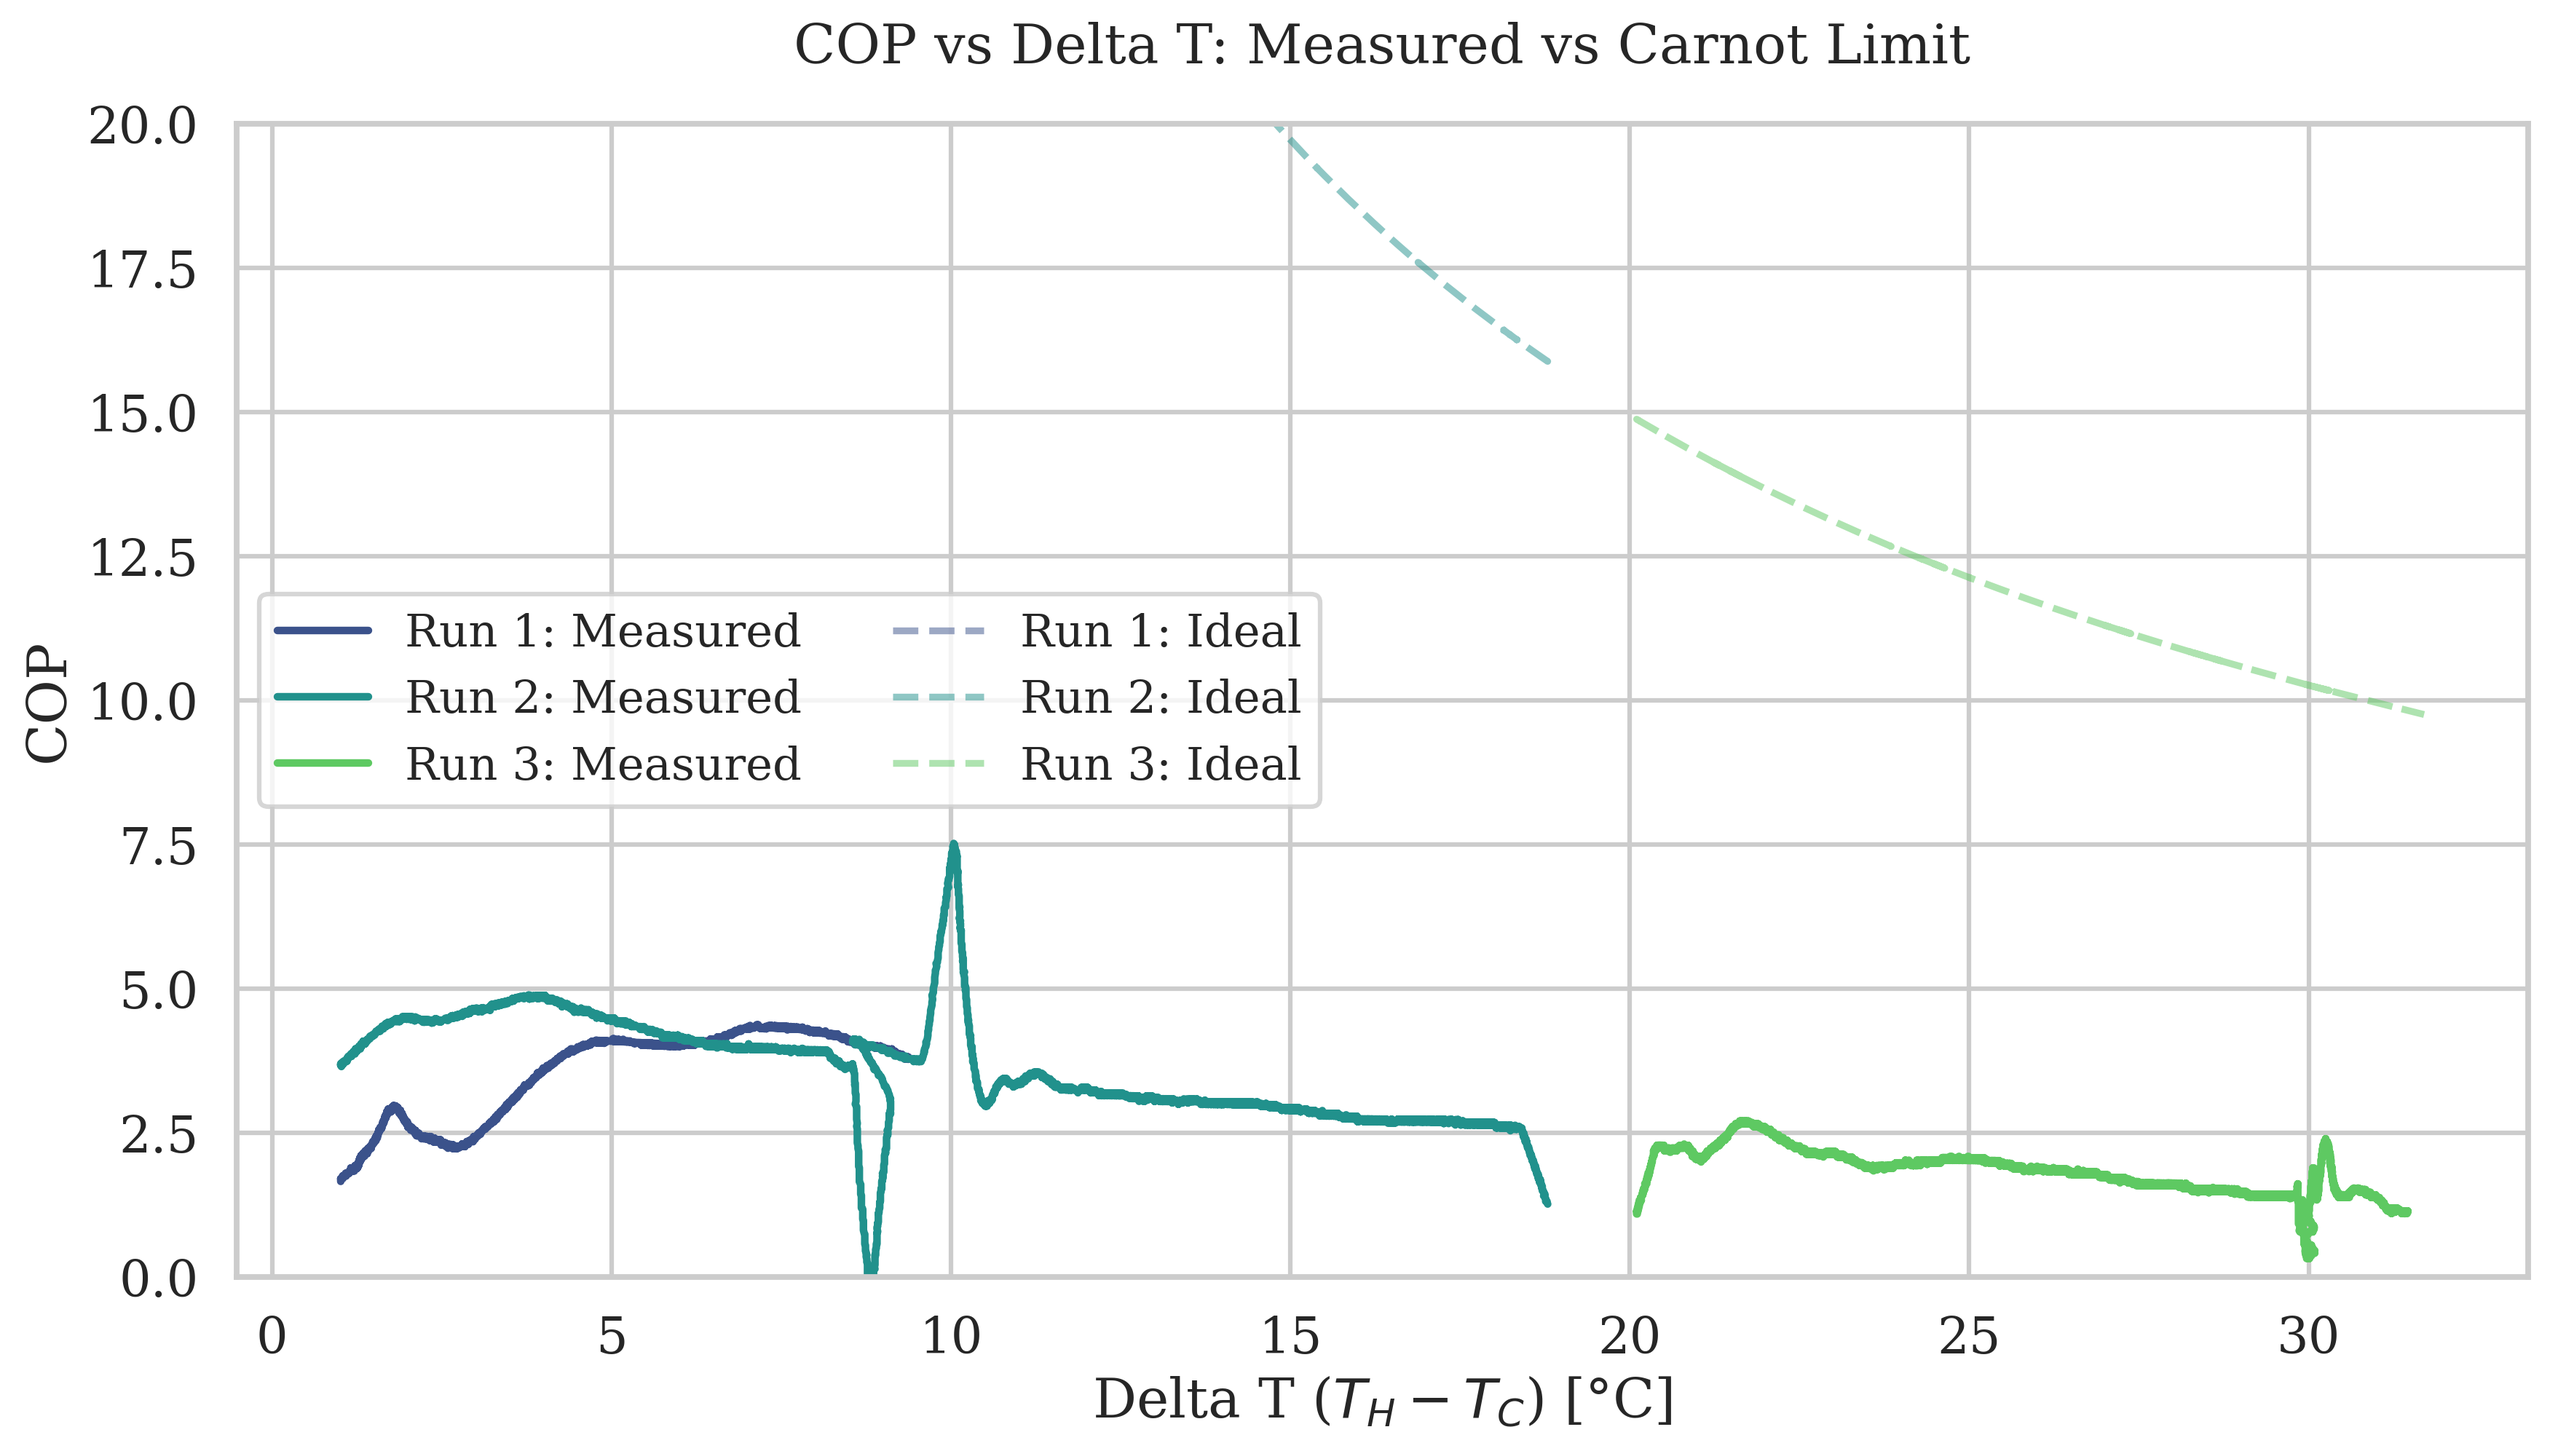
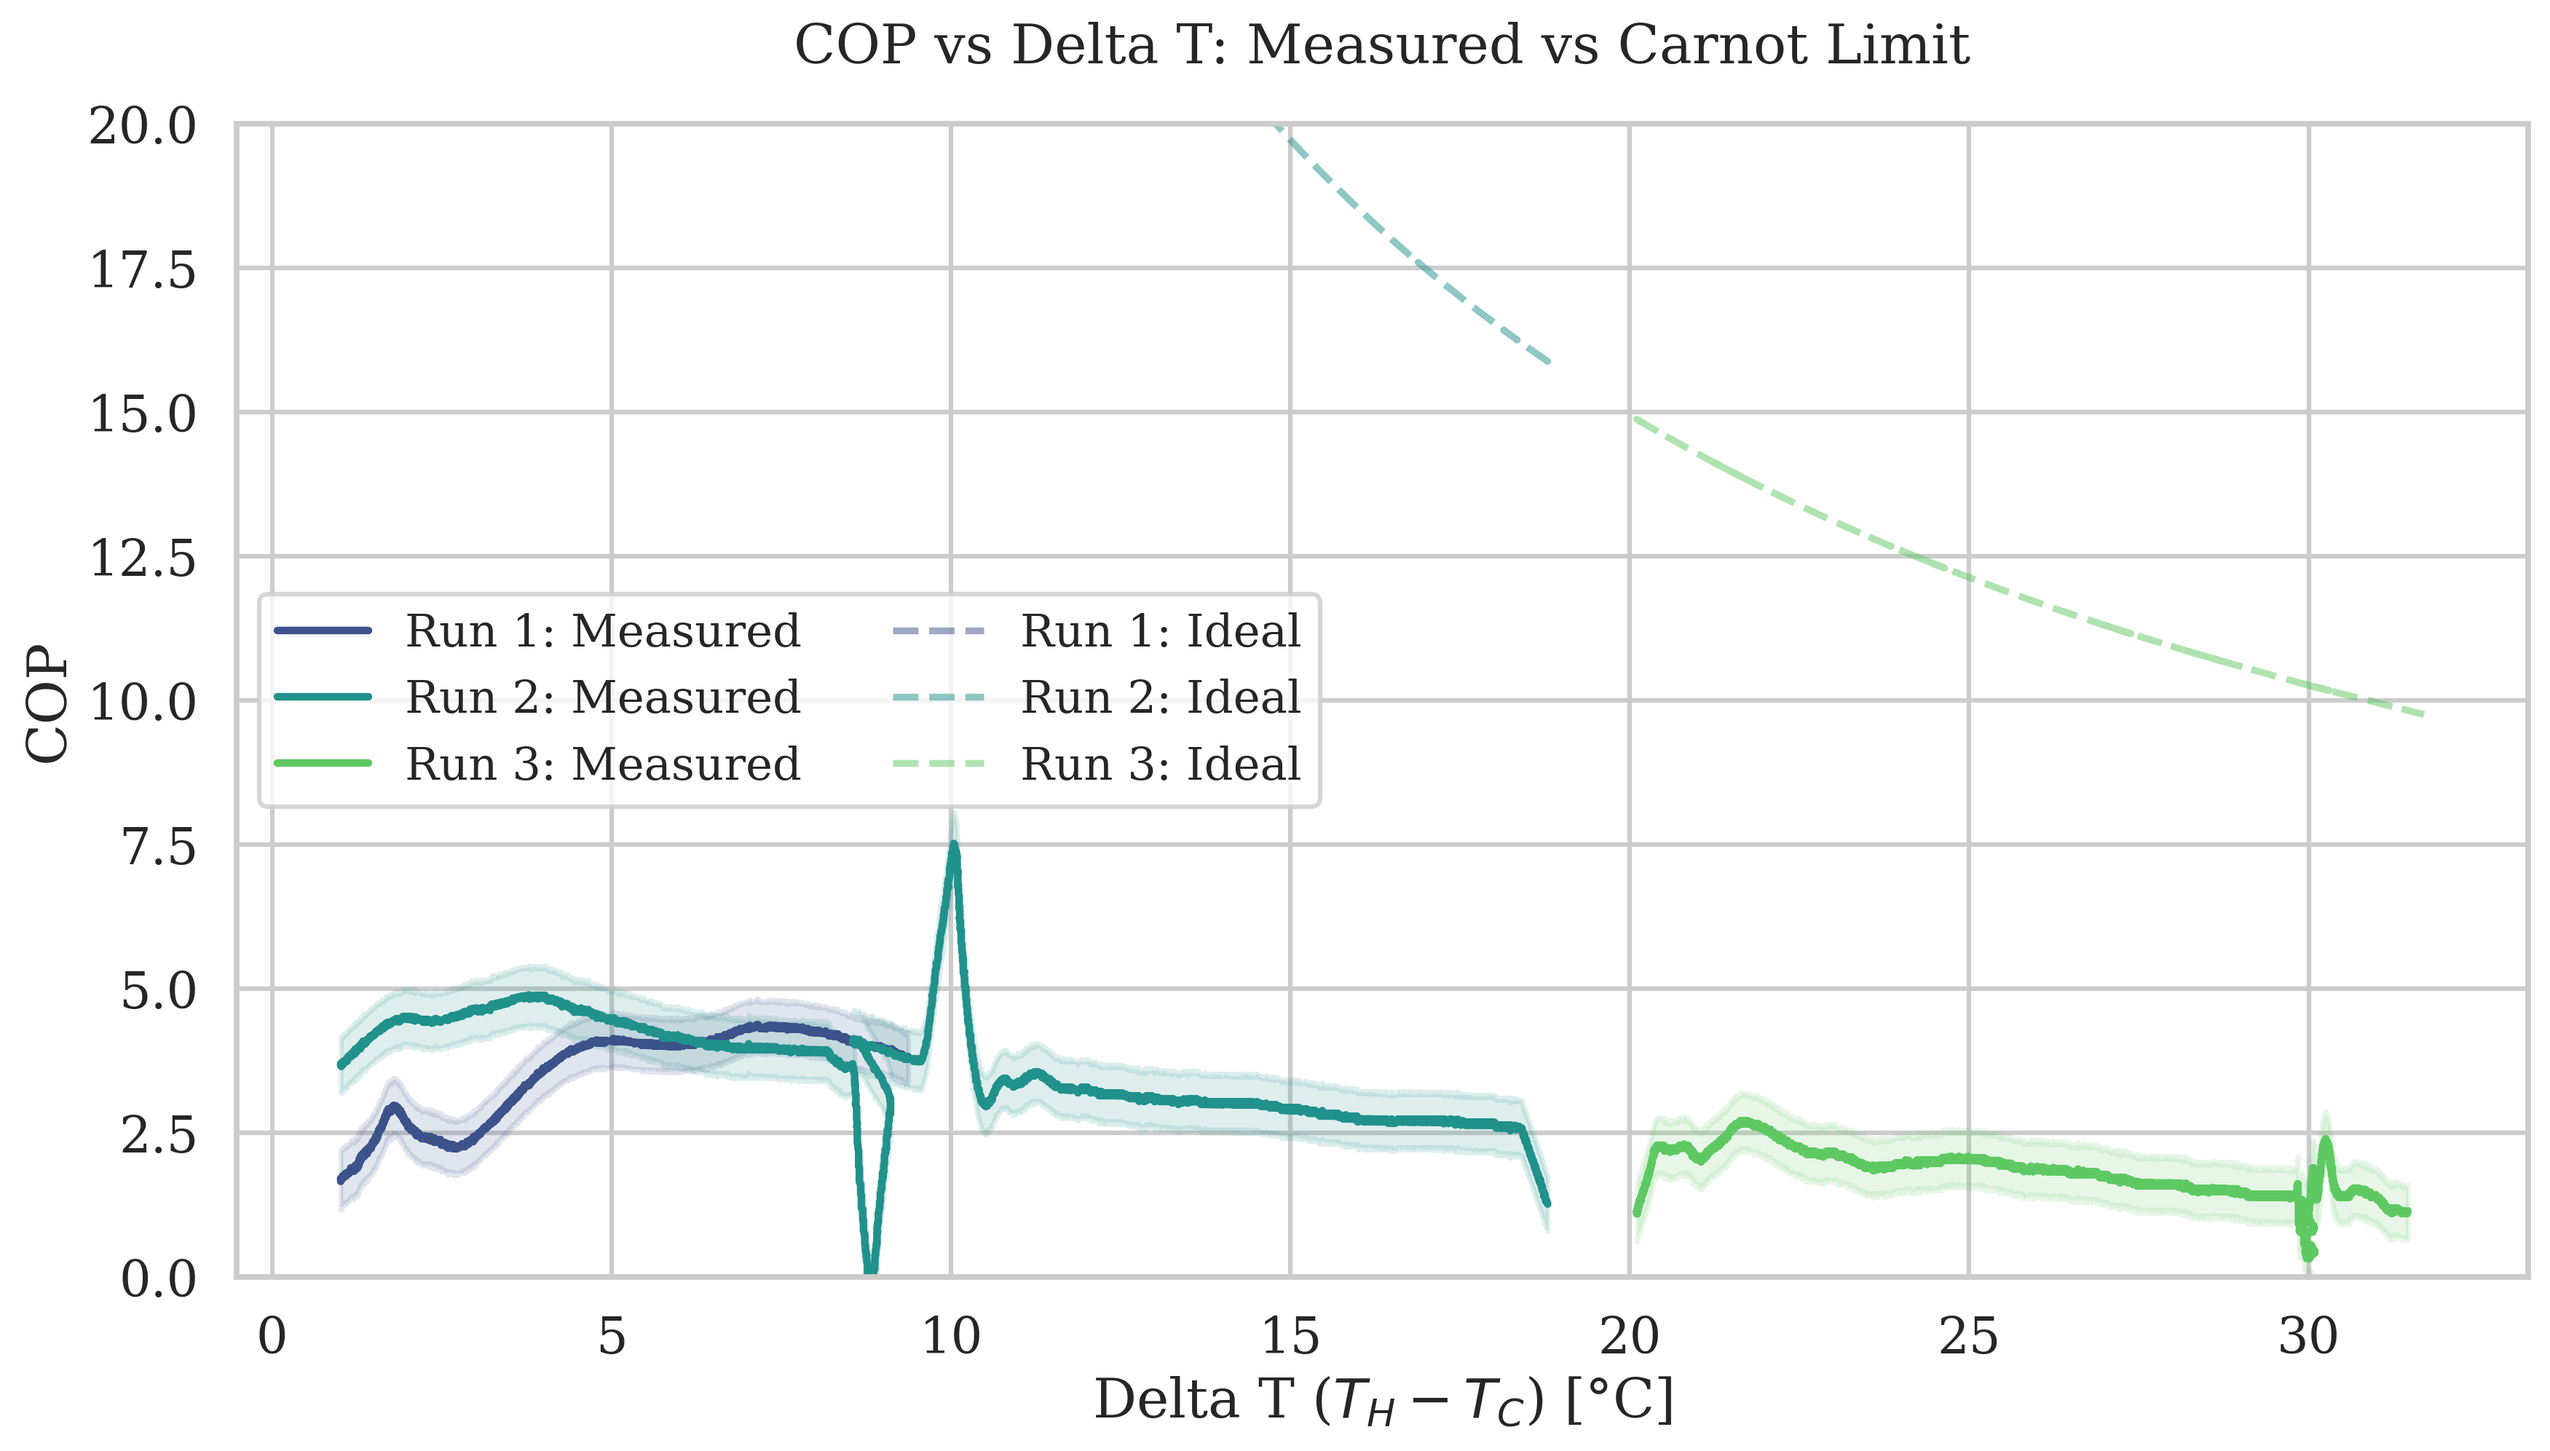
added error bars to COP

Changed region(s): [[0.1245, 0.6533, 0.6225, 0.8399], [0.7159, 0.7777, 0.9338, 0.8399], [0.6536, 0.7466, 0.7159, 0.7777]]

diff --git a/src/plot_data.py b/src/plot_data.py
@@ -17,6 +17,11 @@ MAX_POWER_W = 250.0
 MAX_POWER_STEP_W = 50.0
 PLOT_POWER_YMAX_W = 200.0
 
+# Uncertainty constants
+ERR_TEMP_C = 0.1       # Sensor precision in Celsius
+ERR_MASS_REL = 0.02    # 2% uncertainty in mass estimation
+ERR_POWER_REL = 0.03   # 3% uncertainty in power
+
 
 def load_lab_csv(path, run_name=None):
     """
@@ -74,6 +79,7 @@ data_run_3 = load_lab_csv(DATA_DIR / "run_3_8_may.csv")
 def calculate_cop(data, m_h, m_c, t_power, p_power):
     """
     Calculate COP_H and COP_C based on temperature changes and actual compressor power.
+    Includes uncertainty propagation for COP_H.
     """
     cp = 4180.0  # J/(kg*K)
     data = trim_startup(data)
@@ -109,7 +115,14 @@ def calculate_cop(data, m_h, m_c, t_power, p_power):
     th_k = th + 273.15
     cop_ideal = th_k / np.maximum(delta_t, 0.1)
 
-    return delta_t, cop_h, cop_c, cop_ideal
+    # Uncertainty propagation:
+    # (dCOP/COP)^2 = (dm/m)^2 + (d(dT/dt)/(dT/dt))^2 + (dP/P)^2
+    # For dT/dt, we estimate error as ERR_TEMP / delta_time_of_smoothing (30s)
+    err_dt_dt = (ERR_TEMP_C / 30.0) / np.maximum(np.abs(dth_smooth), 1e-6)
+    rel_err_sq = (ERR_MASS_REL)**2 + (err_dt_dt)**2 + (ERR_POWER_REL)**2
+    err_h = np.abs(cop_h) * np.sqrt(rel_err_sq)
+
+    return delta_t, cop_h, cop_c, cop_ideal, err_h
 
 
 def load_power_csv(path):
@@ -325,13 +338,13 @@ def main():
         return clean_power_signal(t, p)
 
     t_p1, p_p1 = get_clean_power(DATA_DIR / "power_run_1.csv")
-    dt1, coph1, copc1, id1 = calculate_cop(data_run_1, run1_m_h, run1_m_c, t_p1, p_p1)
+    dt1, coph1, copc1, id1, err1 = calculate_cop(data_run_1, run1_m_h, run1_m_c, t_p1, p_p1)
 
     t_p2, p_p2 = get_clean_power(DATA_DIR / "power_run_2.csv")
-    dt2, coph2, copc2, id2 = calculate_cop(data_run_2, run23_m_h, run23_m_c, t_p2, p_p2)
+    dt2, coph2, copc2, id2, err2 = calculate_cop(data_run_2, run23_m_h, run23_m_c, t_p2, p_p2)
 
     t_p3, p_p3 = get_clean_power(DATA_DIR / "power_run_3.csv")
-    dt3, coph3, copc3, id3 = calculate_cop(data_run_3, run23_m_h, run23_m_c, t_p3, p_p3)
+    dt3, coph3, copc3, id3, err3 = calculate_cop(data_run_3, run23_m_h, run23_m_c, t_p3, p_p3)
 
     plt.figure(figsize=(12, 7))
     mask1 = (dt1 > 1) & (dt1 < 35)
@@ -340,10 +353,15 @@ def main():
 
     run_colors = sns.color_palette("viridis", 3)
 
-    # Plot Measured
+    # Plot Measured with Error Bands
     plt.plot(dt1[mask1], coph1[mask1], label="Run 1: Measured", color=run_colors[0], lw=2.5)
+    plt.fill_between(dt1[mask1], coph1[mask1] - err1[mask1], coph1[mask1] + err1[mask1], color=run_colors[0], alpha=0.15)
+
     plt.plot(dt2[mask2], coph2[mask2], label="Run 2: Measured", color=run_colors[1], lw=2.5)
+    plt.fill_between(dt2[mask2], coph2[mask2] - err2[mask2], coph2[mask2] + err2[mask2], color=run_colors[1], alpha=0.15)
+
     plt.plot(dt3[mask3], coph3[mask3], label="Run 3: Measured", color=run_colors[2], lw=2.5)
+    plt.fill_between(dt3[mask3], coph3[mask3] - err3[mask3], coph3[mask3] + err3[mask3], color=run_colors[2], alpha=0.15)
 
     # Plot Ideal (Carnot) for each run
     plt.plot(dt1[mask1], id1[mask1], linestyle="--", color=run_colors[0], alpha=0.5, label="Run 1: Ideal")
